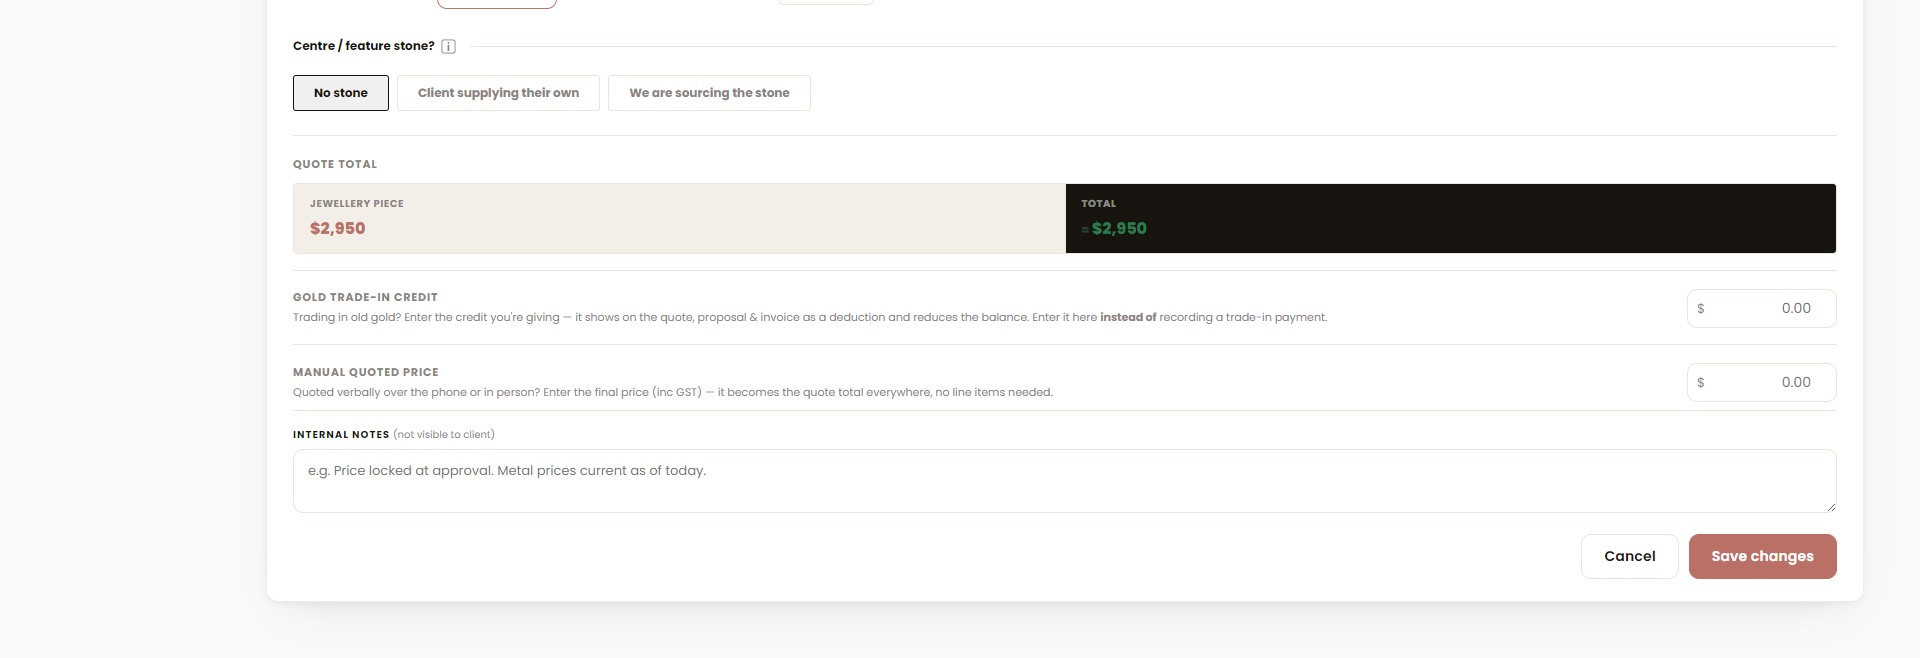
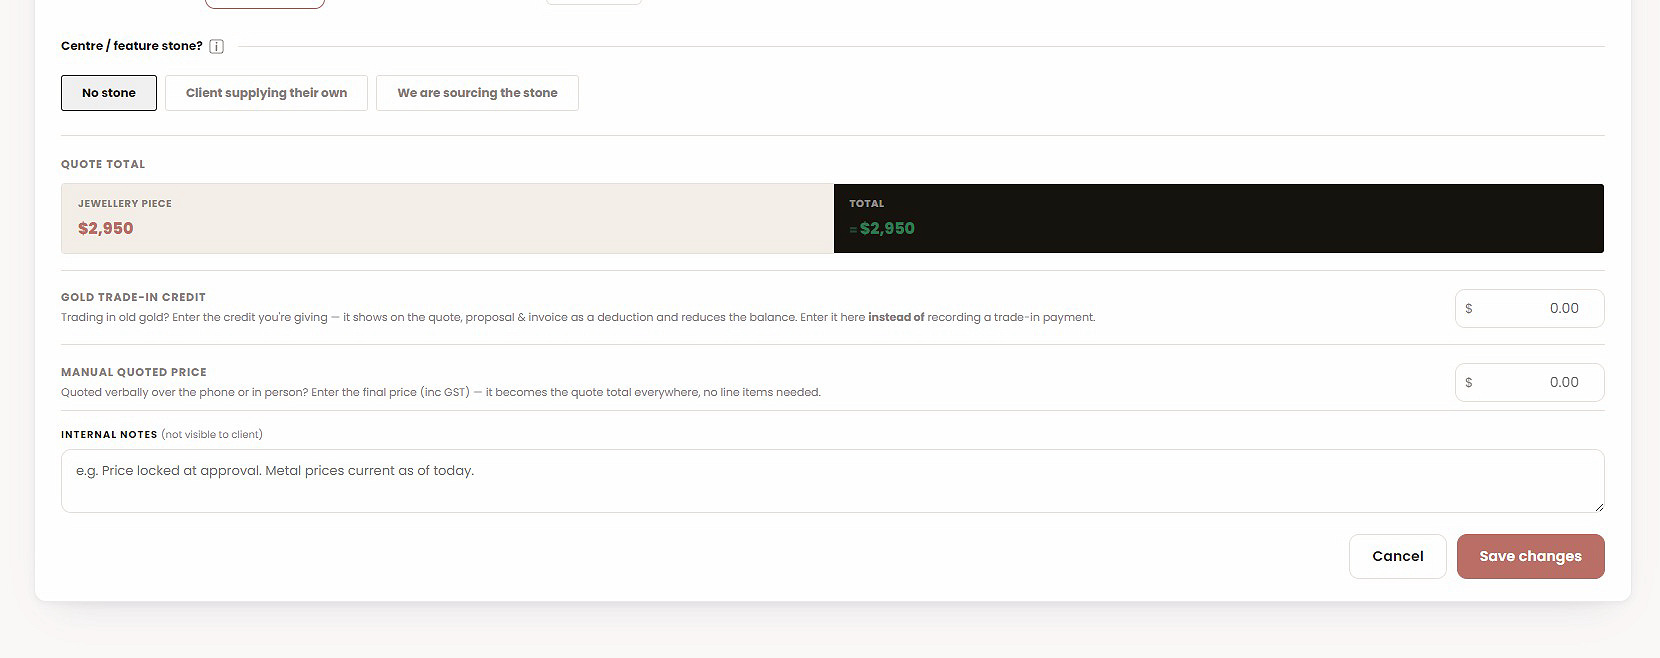
Landing: crop sidebar out of quote-builder shot and sharpen
Remove the left app sidebar (it read as cut off at the scroll edge), focus
on the quote builder itself, and apply a mild sharpen so the 1x capture
reads crisper. Assets recropped to 1660px wide; dimensions updated to keep
the aspect ratio.

diff --git a/landing/index.html b/landing/index.html
@@ -796,8 +796,8 @@
         <figure class="shotframe reveal">
           <div class="shotbar"><span></span><span></span><span></span></div>
           <div class="shotscroll">
-            <img src="shots/quote-builder-top.jpg" width="1920" height="2048" loading="lazy" decoding="async" alt="Workshop Pilot quote builder showing itemised jewellery costs, markup preview and profit for a custom wedding ring set">
-            <img src="shots/quote-builder-bottom.jpg" width="1920" height="658" loading="lazy" decoding="async" alt="Quote total, gold trade-in credit and manual price options in the Workshop Pilot quote builder">
+            <img src="shots/quote-builder-top.jpg" width="1660" height="2048" loading="lazy" decoding="async" alt="Workshop Pilot quote builder showing itemised jewellery costs, markup preview and profit for a custom wedding ring set">
+            <img src="shots/quote-builder-bottom.jpg" width="1660" height="658" loading="lazy" decoding="async" alt="Quote total, gold trade-in credit and manual price options in the Workshop Pilot quote builder">
           </div>
           <figcaption>A real quote in Workshop Pilot. Scroll to see the full breakdown.</figcaption>
         </figure>
